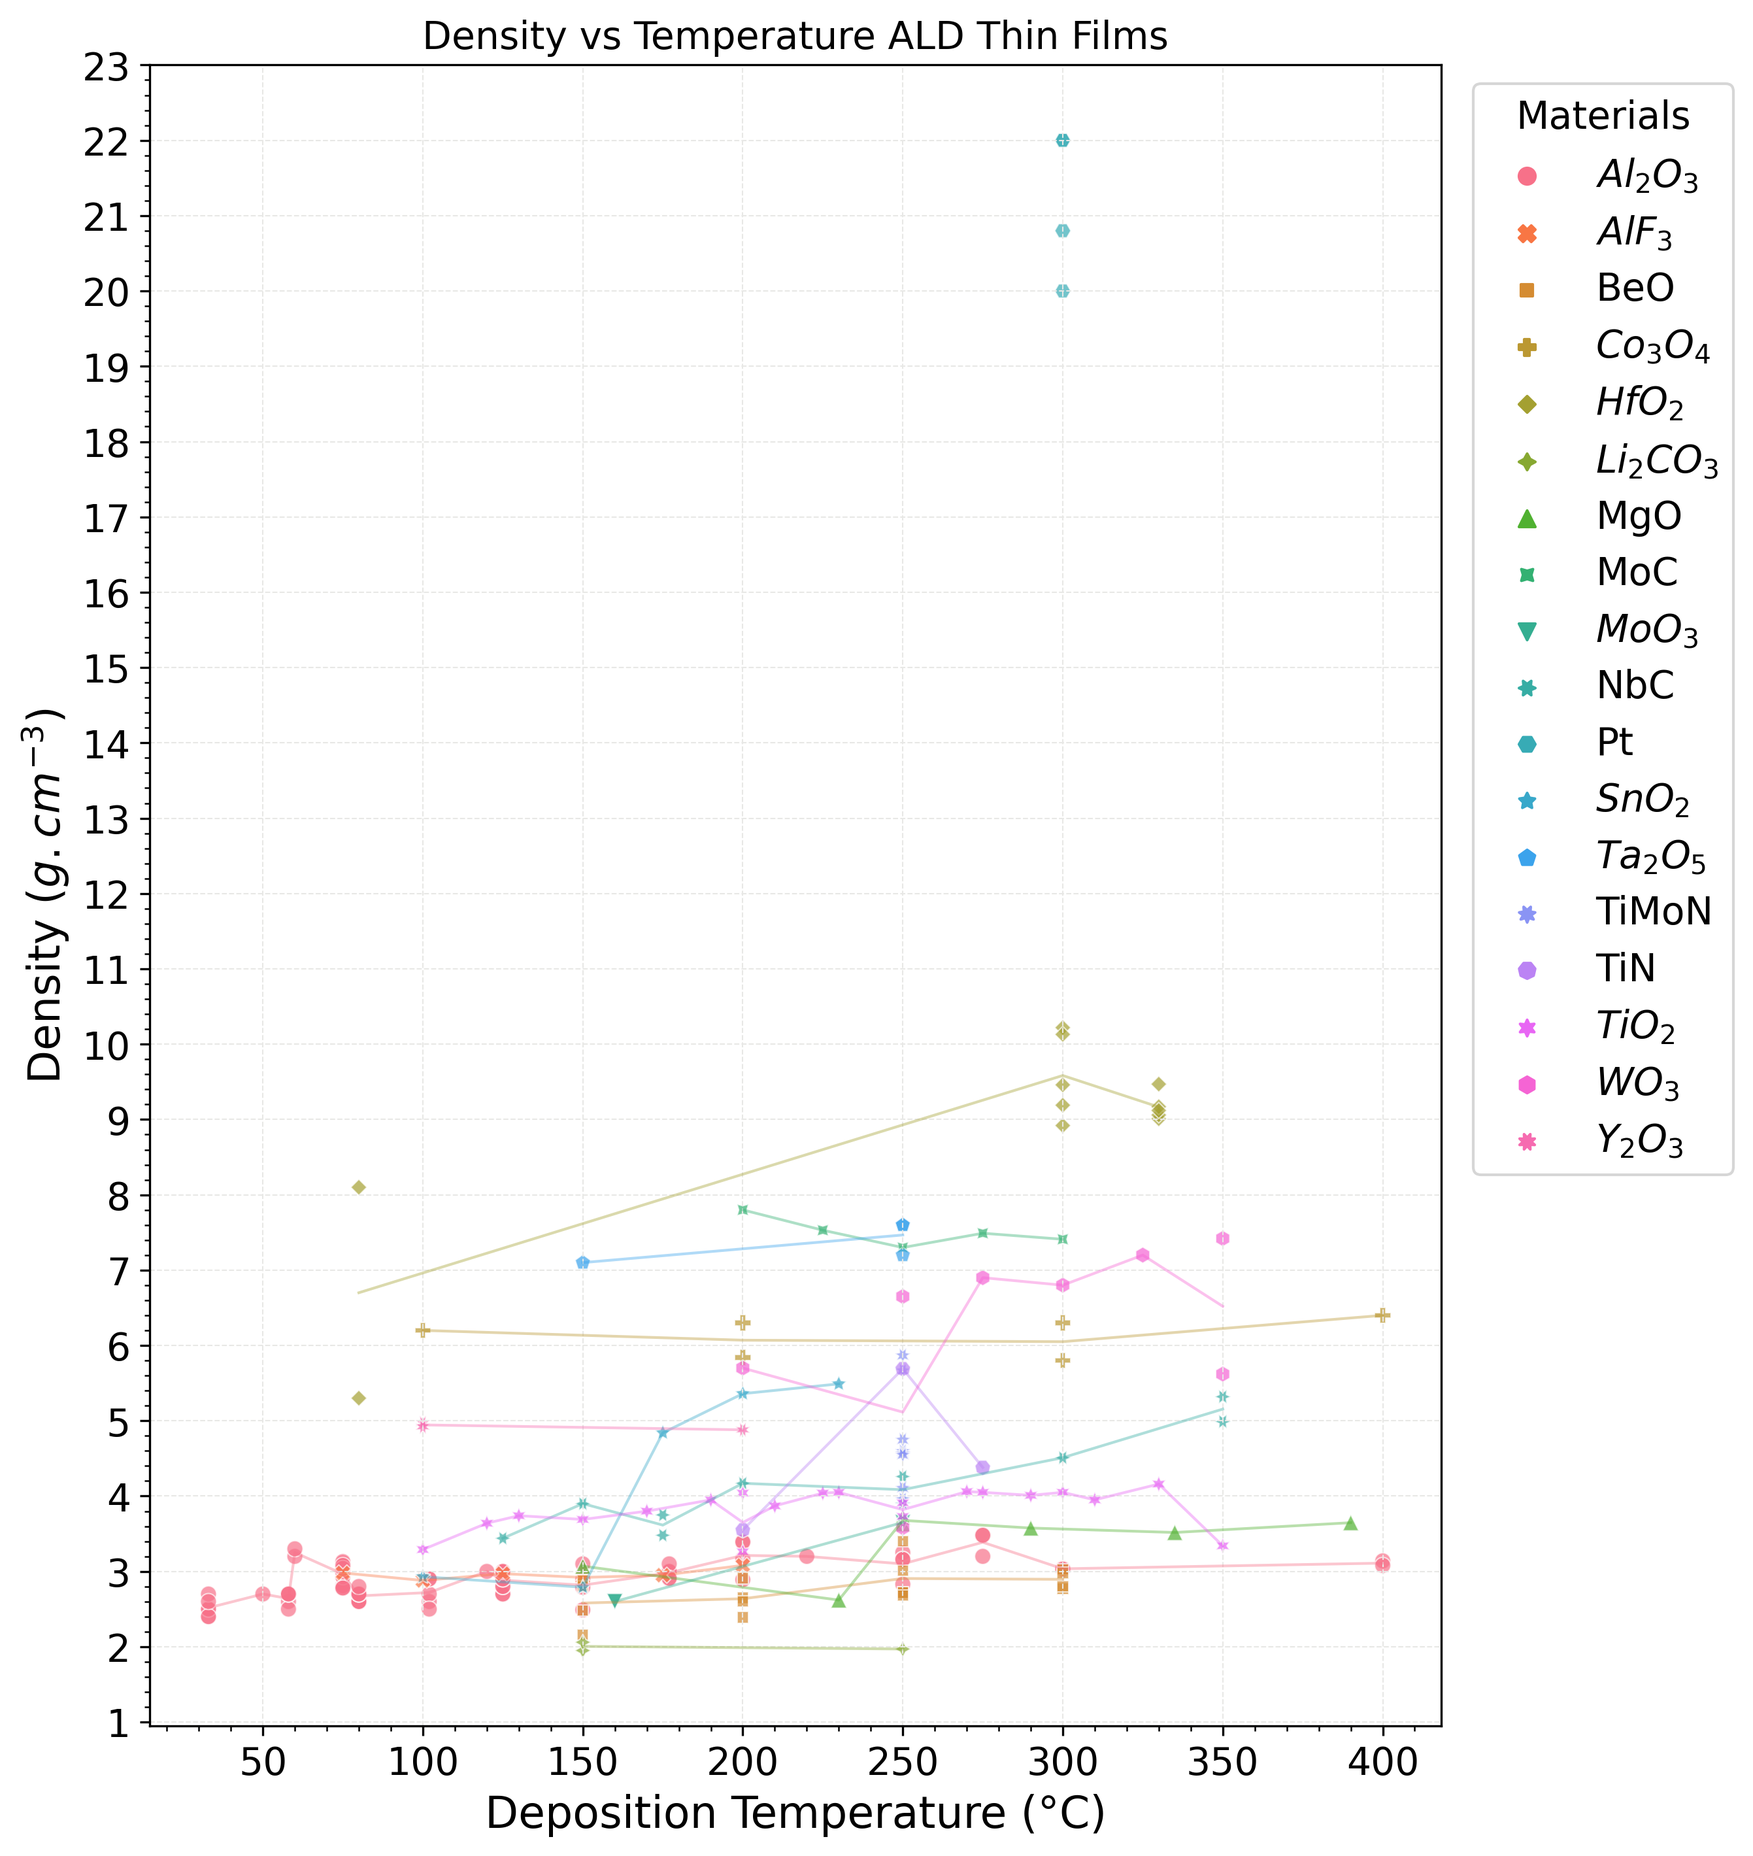
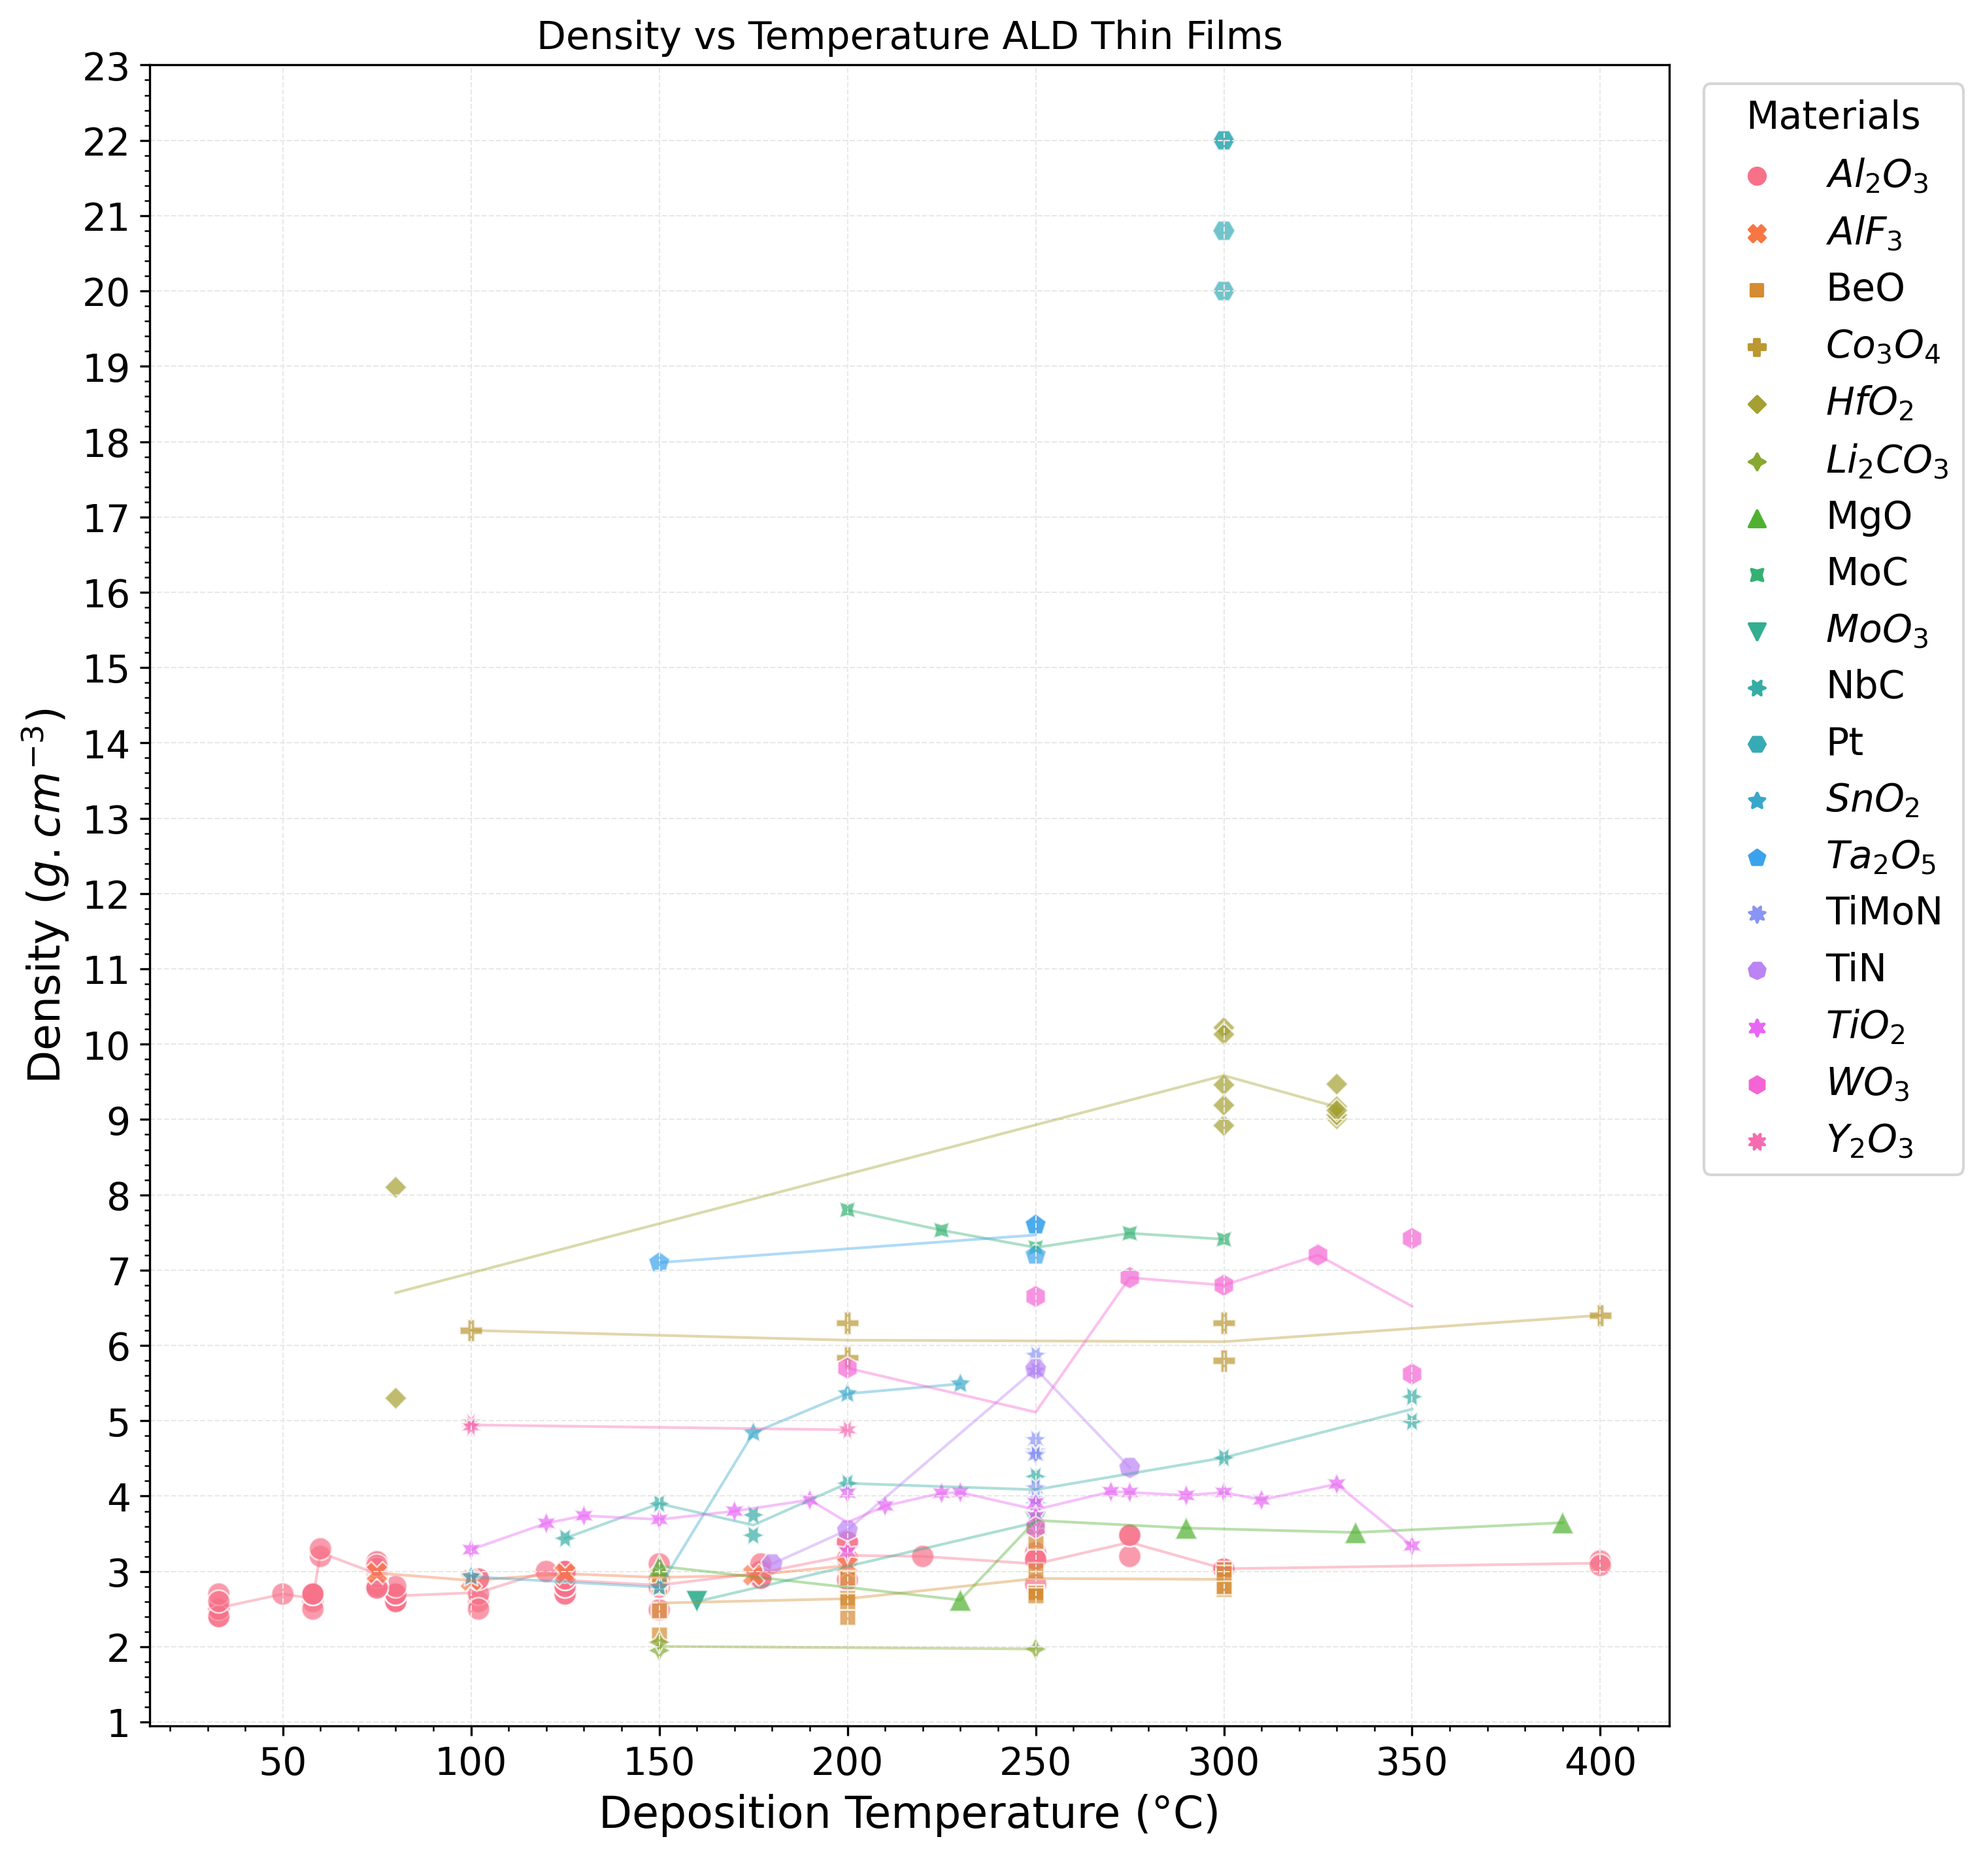
ald grid plot legend fixed

diff --git a/scripts/plot_ald.py b/scripts/plot_ald.py
@@ -114,7 +114,7 @@ def get_line_plot(df, x, y, z):
     plt.rc('figure', titlesize=BIGGER_SIZE)  # fontsize of the figure title
 
 
-    fig, ax = plt.subplots(figsize=(8.5,11)) # figsize=(6, 7)
+    fig, ax = plt.subplots(figsize=(10,11)) # figsize=(6, 7)
     ax.grid(True, color = '#e8e8e6', linestyle = '--', linewidth = 0.5)
     # ax = fig.add_subplot()
     # ax = sns.lineplot(data=df, x=x, y=y, hue=z, marker="o", ci=None, markersize=4, alpha = 0.9, linestyle='')
@@ -124,7 +124,7 @@ def get_line_plot(df, x, y, z):
     print(order_z)
 
     g2 = sns.lineplot(ax=ax, data=df, x=x, y=y, hue=z, alpha=0.4, lw=1, ci=None, legend=False, hue_order=order_z)
-    g1 = sns.scatterplot(ax=ax, data=df, x=x, y=y, hue=z, alpha=0.7, s=35, style=z, hue_order=order_z, style_order=order_z)
+    g1 = sns.scatterplot(ax=ax, data=df, x=x, y=y, hue=z, alpha=0.7, s=70, style=z, hue_order=order_z, style_order=order_z)
 
     # SET PLOT TITLE
     plt.title("Density vs Temperature ALD Thin Films")
@@ -154,9 +154,20 @@ def get_line_plot(df, x, y, z):
 
     return fig
 
-def get_fit_plot(df, x, y, z, hue):
+def get_fit_plot(df, x, y, z, hue, info={}):
     # plot
     print(df.info())
+
+    hue_order = info.get("hue_order", None)
+    col_wrap = info.get("col_wrap", 4)
+    palette = info.get("palette", ["orangered", "navy"])
+    markers = info.get("markers", ["d", "s"])
+
+    scatter_kws = {"s": 80, "alpha":0.65}
+    line_kws = {"lw": 2.5, "alpha":0.60}
+
+    scatter_kws.update(info.get("scatter_kws", {}))
+    line_kws.update(info.get("line_kws", {}))
 
     # PLOT
     # fig1, ax1 = plt.subplots()
@@ -173,6 +184,7 @@ def get_fit_plot(df, x, y, z, hue):
     df_plot = df.loc[:,[x,y,z,hue]]
 
     df_plot[z] = df_plot[z].apply(daz.create_latex_labels)
+    # df_plot[hue] = df_plot[hue].apply(lambda x: "PEALD" if x=="TRUE" else "Thermal")
 
     SMALL_SIZE = 22
     MEDIUM_SIZE = 26
@@ -189,13 +201,13 @@ def get_fit_plot(df, x, y, z, hue):
 
 
     # scatter plot with linear regression for each category Z 
-    fig = sns.lmplot(data=df_plot, x=x, y=y, col=z, col_wrap=4, ci=None, 
-        hue=hue, hue_order=[True, False], markers=["^", "v"], palette=["orangered", "navy"],
+    fig = sns.lmplot(data=df_plot, x=x, y=y, col=z, col_wrap=col_wrap, ci=None, 
+        hue=hue, hue_order=hue_order, markers=markers, palette=palette,
         facet_kws = dict(sharex=False, sharey=False), 
-        scatter_kws={"s": 80, "alpha":0.5}, 
-        line_kws={"lw":2.5, "alpha":0.5})
+        scatter_kws=scatter_kws, line_kws=line_kws)
 
-    
+    sns.despine(top=False, right=False, left=False, bottom=False)
+
     # splot2 = sns.lmplot(data=df_plot, x=X, y=Y, hue=Z, ci=None, fit_reg=False, scatter_kws={"s": 10, "alpha":0.4}) # scatter plot with linear regression for each category Z 
     # splot2 = sns.lineplot(data=df_plot, x=X, y=Y, hue=Z, marker="o")
 
@@ -218,14 +230,25 @@ def get_fit_plot(df, x, y, z, hue):
     fig.set_axis_labels( "Deposition Temperature (°C)", "Density $(g.cm^{-3})$" )
 
     # CUSTOMIZE LEGEND
-    sns.move_legend(fig, "lower center", bbox_to_anchor=(0.5, 1), ncol=2, frameon=False)
+
+    # LEGEND
+    fig._legend.set_title(info.get("legend_title", ''))
+    if new_labels := info.get('legend_labels', False):
+        for t, l in zip(fig._legend.texts, new_labels):
+            t.set_text(l)
+
+    sns.move_legend(fig, "lower center", bbox_to_anchor=(0.5, 0.99), ncol=2, frameon=False)
 
     # customize plot spacing and padding
-    plt.subplots_adjust(wspace = 0.19, hspace=0.3)
+    plt.subplots_adjust(wspace = 0.25, hspace=0.3)
     # plt.tight_layout()
     return fig
 
-fig1 = get_fit_plot(df_plot, X, Y, Z, hue="PEALD?")
+
+info = dict(legend_labels=['PEALD', 'Thermal'], hue_order = [True, False], 
+    palette = ["orangered", "navy"])
+
+fig1 = get_fit_plot(df_plot, X, Y, Z, hue="PEALD?", info=info)
 fig2 = get_line_plot(df_plot2, X, Y, Z)
 
 
